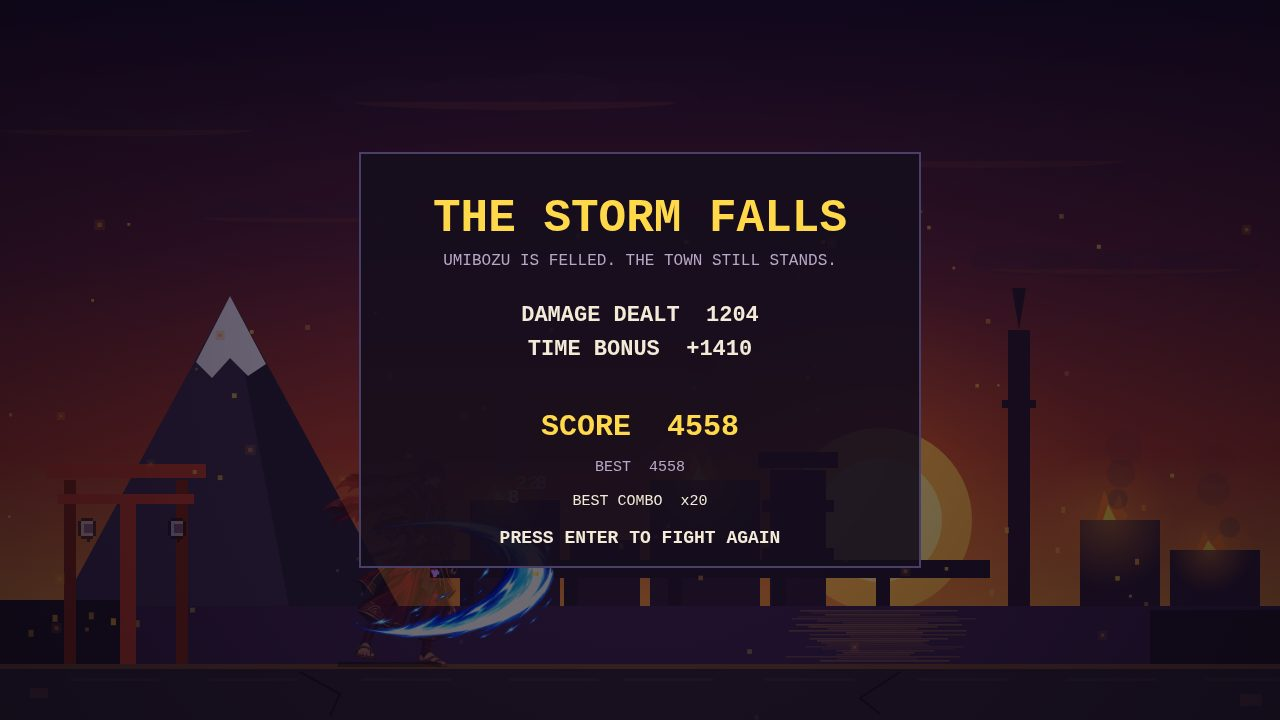
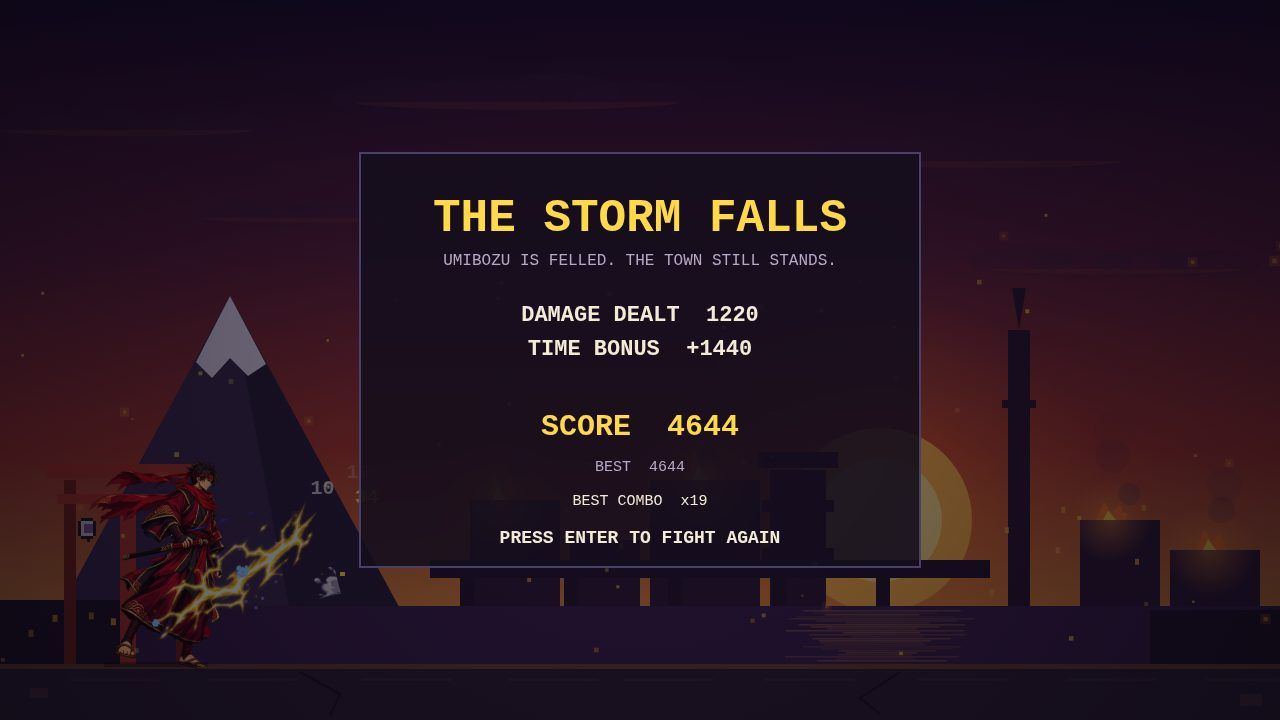
Differentiate the two samurai: AO swift vs AKA mighty
- config.js: per-variant attack numbers — AO slash 7dmg/0.26s, heavy 20;
  AKA slash 10dmg/0.38s, heavy 26. Slash DPS near-equal (~27 vs ~26) so
  neither dominates; the choice is rhythm, not power
- world.js: trySlash + slash cooldown read the active variant's stats
- render.js: select screen shows each samurai's fighting style line
- Balance (balance-check method): blue 6/6 wins avg 4824, red 6/6 wins
  avg 4580 — red kills faster (37s vs 41s), blue scores more; no dominant
  option. Screenshots re-taken; determinism byte-identical

diff --git a/game/src/world.js b/game/src/world.js
@@ -6,7 +6,7 @@
 // knowing about screens or sound. Nothing here allocates after createWorld
 // returns; every random choice comes from the seeded generator passed in,
 // so the same seed always plays the same fight.
-import { FIELD, KAIJU_ORDER, KAIJU_TYPES, RAIJU, RONIN, SCORE, STEP, TIME_LIMIT } from './config.js';
+import { FIELD, KAIJU_ORDER, KAIJU_TYPES, RAIJU, RONIN, SAMURAI_VARIANTS, SCORE, STEP, TIME_LIMIT } from './config.js';
 
 export const EVENT_SLASH = 1;
 export const EVENT_HEAVY = 2;
@@ -386,9 +386,15 @@ export function createWorld(random) {
     return { raijuHit, phaseUp, comboUp };
   }
 
+  /** The active samurai's attack numbers — AO is swift, AKA is mighty. */
+  function variantStats() {
+    return SAMURAI_VARIANTS[state.samurai || 'blue'];
+  }
+
   function trySlash(heavy) {
+    const v = variantStats();
     const reach = heavy ? RONIN.heavyReach : RONIN.slashReach;
-    const damage = heavy ? RONIN.heavyDamage : RONIN.slashDamage;
+    const damage = heavy ? v.heavyDamage : v.slashDamage;
     const box = {
       x: ronin.facing > 0 ? ronin.x : ronin.x - reach,
       y: ronin.y - 110,
@@ -494,7 +500,7 @@ export function createWorld(random) {
     if (input.heavy) ronin.heavyBuffer = 0.12;
     if (ronin.slashBuffer > 0 && ronin.slashTimer <= 0 && !locked) {
       ronin.slashBuffer = 0;
-      ronin.slashTimer = RONIN.slashCooldown;
+      ronin.slashTimer = variantStats().slashCooldown;
       ronin.pose = 'slash';
       ronin.poseTime = 0.18;
       events |= EVENT_SLASH;

diff --git a/game/src/config.js b/game/src/config.js
@@ -43,19 +43,25 @@ export const RONIN = {
   maxCells: 3,
 };
 
-/** The two playable samurai. Same moveset, different theme — the player
- * picks one on the select screen. `fx` colours the slash arc and the
- * special projectile; `cloth`/`dark` are the sprite palette keys used by
- * the variant (see sprites.js). */
+/** The two playable samurai. Same moveset, different theme AND different
+ * feel — AO is swift (fast slashes, lighter blows), AKA is mighty (slow
+ * slashes, heavier blows). Slash DPS is near-equal (~27 vs ~26) so neither
+ * dominates; the choice is about rhythm, not power. `fx` colours the slash
+ * arc and the special projectile; `cloth`/`dark` are the sprite palette
+ * keys used by the variant (see sprites.js). */
 export const SAMURAI_VARIANTS = {
   blue: {
     id: 'blue', name: 'AO', title: 'Blue Samurai',
     tagline: 'Calm as the moon, a blade of light.',
+    style: 'SWIFT — FAST SLASHES, LIGHTER BLOWS',
+    slashDamage: 7, slashCooldown: 0.26, heavyDamage: 20,
     slash: '#8ef1ff', slashCore: '#f3f7ff', special: '#8ef1ff', specialCore: '#f2e9ff',
   },
   red: {
     id: 'red', name: 'AKA', title: 'Red Samurai',
     tagline: 'Burning like fire, a blade of embers.',
+    style: 'MIGHTY — SLOW SLASHES, HEAVIER BLOWS',
+    slashDamage: 10, slashCooldown: 0.38, heavyDamage: 26,
     slash: '#ff9e45', slashCore: '#ffd94a', special: '#ff7a2a', specialCore: '#ffd94a',
   },
 };

diff --git a/game/src/render.js b/game/src/render.js
@@ -797,13 +797,16 @@ export function createRenderer(canvas, assets) {
         const set = SPRITES.samurai[card.id];
         drawPixelSprite(ctx, set.idle[0], cx, 420, 5);
       }
-      // Name + tagline.
+      // Name + tagline + fighting style (AO swift, AKA mighty).
       ctx.fillStyle = PALETTE.text;
       ctx.font = `bold 26px ${FONT}`;
-      ctx.fillText(card.variant.title.toUpperCase(), cx, 470);
+      ctx.fillText(card.variant.title.toUpperCase(), cx, 468);
       ctx.fillStyle = PALETTE.muted;
       ctx.font = `14px ${FONT}`;
-      ctx.fillText(card.variant.tagline, cx, 498);
+      ctx.fillText(card.variant.tagline, cx, 492);
+      ctx.fillStyle = card.variant.slash;
+      ctx.font = `bold 13px ${FONT}`;
+      ctx.fillText(card.variant.style, cx, 514);
       if (selected) {
         ctx.fillStyle = card.variant.slash;
         ctx.font = `bold 16px ${FONT}`;

diff --git a/README.md b/README.md
@@ -55,6 +55,10 @@ node serve.ts
 - **Combo** — consecutive hits within 2.5 seconds build a chain: every 5 hits
   raises the score multiplier (up to x3). Getting hit, or letting the chain
   run out, breaks it. The HUD shows the combo and the time left to keep it.
+- **Two samurai, two rhythms** — AO (blue) is swift: fast slashes (7 dmg,
+  0.26s), lighter heavy (20). AKA (red) is mighty: slow slashes (10 dmg,
+  0.38s), heavier heavy (26). Slash DPS is near-equal, so the choice is
+  about feel, not power.
 - Every attack is telegraphed — ground markers before lightning, a rearing
   head before the swipe, a crouch before the leap — so every hit is dodgeable.
 
